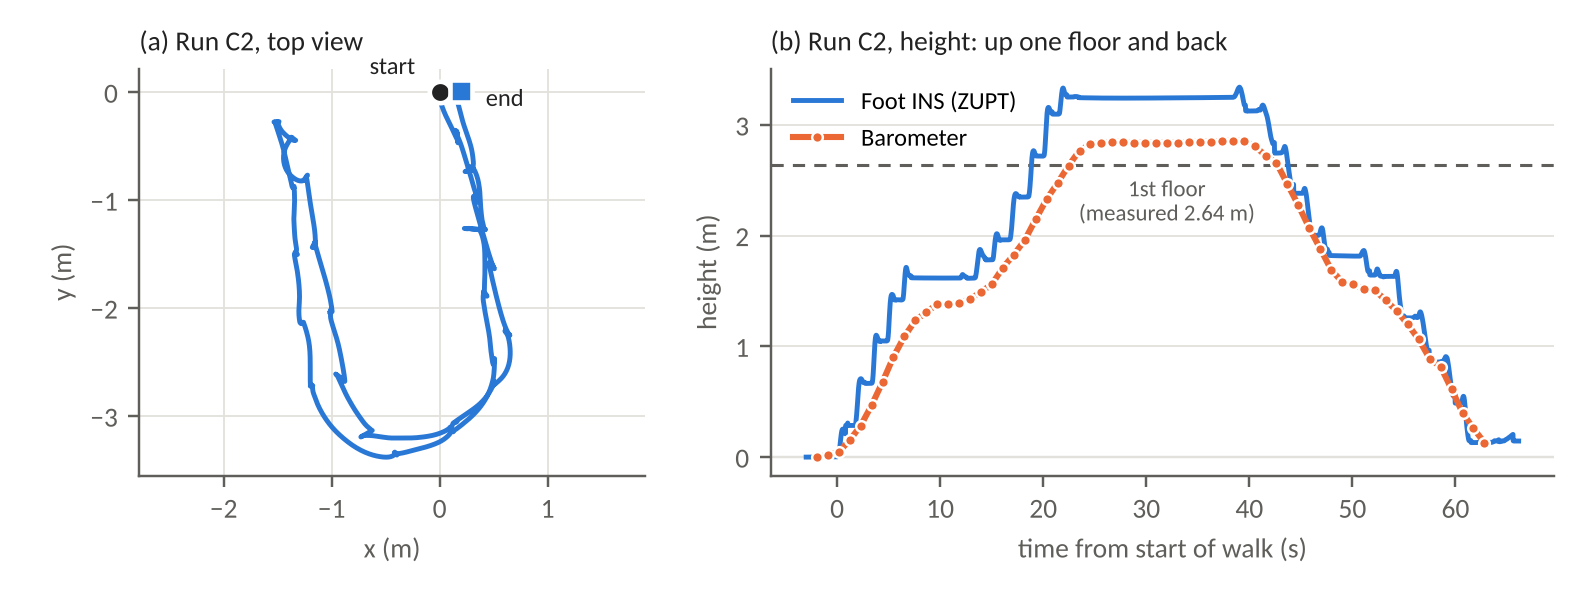
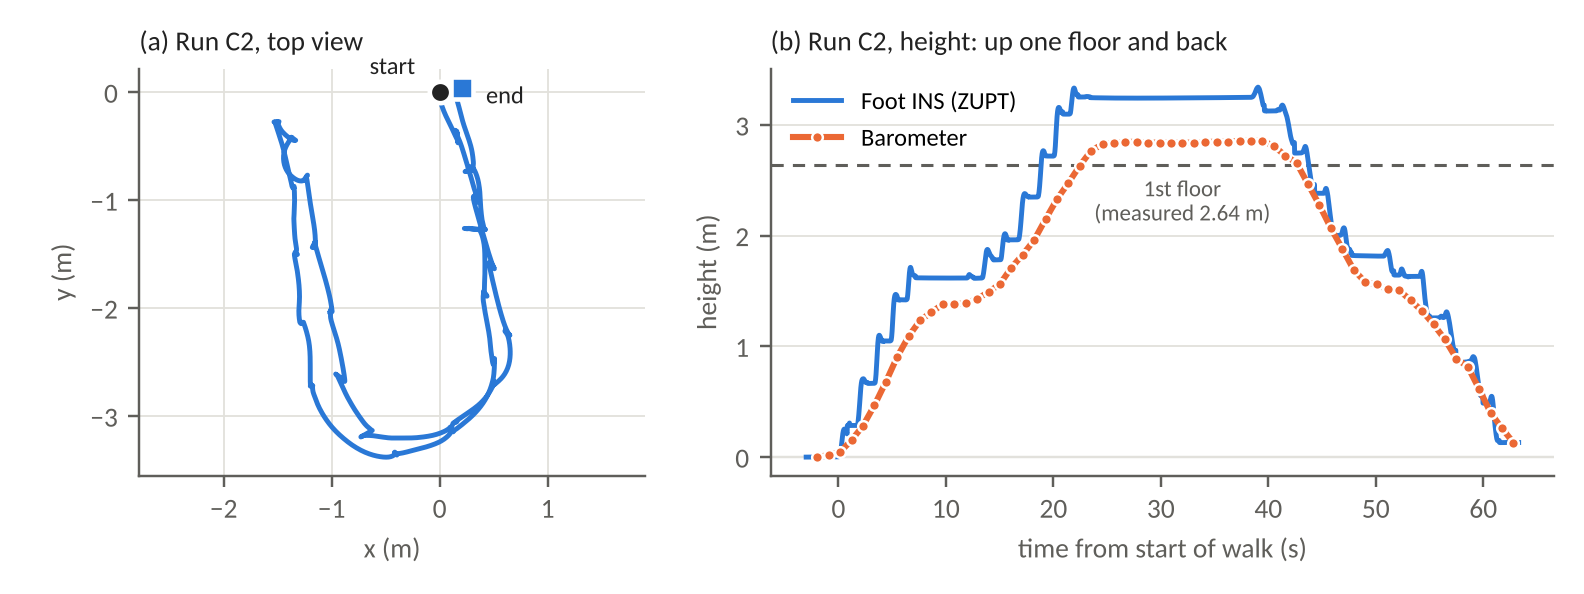
Updated Directory

diff --git a/code/analyse.py b/code/analyse.py
@@ -29,20 +29,21 @@ def segments(mask, t, min_s):
     return out
 
 
-def analyse(run):
+def analyse(run, gamma=3e4):
     t, f, w, b = load_run(f"{DATA}/{run}")
     ka, ks = find_start(t, w, f)
     t, f, w = t[ka:], f[ka:], w[ka:]
-    z, _ = glrt_detector(f, w)
+    z, _ = glrt_detector(f, w, gamma=gamma)
     pos, _ = run_ins(t, f, w, z)
     long_ = segments(z, t, 3.0)
     start = long_[0]
     top = max(long_[1:], key=lambda s: np.median(pos[s[0]:s[1], 2]))
     land_up = [s for s in long_ if start[1] <= s[0] < top[0]]
-    arrive = segments(z, t, 0.4)[-1]  # last foot-flat after the descent
+    # arrival = last foot-flat period >= 0.8 s; later, shorter stances are the phone being unstrapped
+    arrive = segments(z, t, 0.8)[-1]
     p0 = pos[start[0]:start[1]].mean(0)
     p1 = pos[arrive[0]:arrive[1]].mean(0)
-    stance = segments(z, t, 0.0)
+    stance = [s for s in segments(z, t, 0.0) if s[0] <= arrive[0]]
     mids = [(a + c) // 2 for a, c in stance]
     bt, bp = b.seconds_elapsed.to_numpy(), b.pressure.to_numpy()
     p_ref = np.median(bp[(bt >= t[start[0]]) & (bt <= t[start[1] - 1])])
@@ -58,15 +59,17 @@ def analyse(run):
         closing_err_horiz_m=float(np.linalg.norm((p1 - p0)[:2])),
         closing_err_vert_m=float((p1 - p0)[2]),
         path_m=float(np.sum(np.linalg.norm(np.diff(pos[mids], axis=0), axis=1))),
+        arrival_t_s=float(t[arrive[0]] - t[start[1]]),
         strides=count_steps(z),
     )
-    return m, dict(t=t - t[start[1]], pos=pos, bt=bt - t[start[1]], balt=balt, p0=p0, p1=p1, start=start)
+    return m, dict(arr=arrive[1], t=t - t[start[1]], pos=pos, bt=bt - t[start[1]], balt=balt, p0=p0, p1=p1, start=start)
 
 
 res, tr = {}, {}
 for r in ["c1", "c2"]:
     res[r], tr[r] = analyse(r)
-res["truth"] = dict(top_m=TRUTH, landing_m=LAND)
+res["truth"] = dict(top_m=TRUTH, landing_m=LAND, note="nominal: 16 risers x 6.5 in")
+res["sensitivity_ins_top_m"] = {f"gamma={g:.0e}": {r: round(analyse(r, g)[0]["ins_top_m"], 2) for r in ["c1", "c2"]} for g in [1e4, 3e4, 1e5]}
 json.dump(res, open(f"{OUT}/metrics.json", "w"), indent=1)
 print(json.dumps(res, indent=1))
 
@@ -81,7 +84,8 @@ fig, (ax1, ax2) = plt.subplots(1, 2, figsize=(7.2, 2.7), gridspec_kw={"width_rat
 # (a) top-down view, C2
 d = tr["c2"]
 k0 = d["start"][0]
-ax1.plot(d["pos"][k0:, 0], d["pos"][k0:, 1], color=BLUE, lw=1.6, solid_capstyle="round")
+ka = d["arr"]
+ax1.plot(d["pos"][k0:ka, 0], d["pos"][k0:ka, 1], color=BLUE, lw=1.6, solid_capstyle="round")
 ax1.plot(*d["p0"][:2], "o", ms=7, color=INK, mec="white", mew=1.5, zorder=5)
 ax1.plot(*d["p1"][:2], "s", ms=7, color=BLUE, mec="white", mew=1.5, zorder=5)
 ax1.annotate("start", d["p0"][:2], xytext=(-8, 6), textcoords="offset points", ha="right", color=INK, fontsize=8)
@@ -97,9 +101,9 @@ for s in ["top", "right"]:
 ax2.axhline(TRUTH, color=INK2, lw=1, ls=(0, (4, 3)))
 ax2.text(32, TRUTH - 0.1, "1st floor\n(measured 2.64 m)", ha="center", va="top", fontsize=7.5, color=INK2, linespacing=1.1)
 ax2.axhline(0, color=GRID, lw=0.8)
-m = d["t"] >= -3
+m = (d["t"] >= -3) & (np.arange(len(d["t"])) < d["arr"])
 ax2.plot(d["t"][m], d["pos"][m, 2], color=BLUE, lw=1.6, label="Foot INS (ZUPT)")
-mb = d["bt"] >= -3
+mb = (d["bt"] >= -3) & (d["bt"] <= d["t"][d["arr"] - 1])
 ax2.plot(d["bt"][mb], d["balt"][mb], color=ORANGE, lw=2, marker="o", ms=3.5, mec="white", mew=0.8,
          label="Barometer")
 ax2.set_xlabel("time from start of walk (s)"); ax2.set_ylabel("height (m)")

diff --git a/README.md b/README.md
@@ -1,30 +1,59 @@
 # SAATHI – preliminary foot-mounted INS results
 
-Offline test of the SAATHI navigation method (MYOSA 7.0 proposal) using a phone IMU
+Offline test of the SAATHI navigation method (IEEE MYOSA 7.0 proposal) with a phone IMU,
 before the MYOSA kit arrives.
 
-**Setup:** iPhone 14 strapped flat on the right instep, Sensor Logger app, 100 Hz
-(accelerometer, gyroscope, barometer). Two stair runs (`data/c1`, `data/c2`): stand still
-~20 s, climb ground → 1st floor (8 steps, landing, 8 steps; riser 6.5 in, so 2.64 m),
-pause, walk back down to the start mark. `data/demo` is a desk test of the recording setup.
+## Setup
+- iPhone 14 strapped flat on the right instep, recorded with the Sensor Logger app at 100 Hz
+  (accelerometer, gyroscope, barometer).
+- Two stair runs, `data/c1` and `data/c2`: stand still ~20 s, climb ground → 1st floor
+  (8 steps, landing, 8 steps), pause at the top, walk back down to the start mark.
+- Floor height: 2.64 m **nominal** (16 risers × 6.5 in); still to be re-measured with a tape.
+- `data/demo` is a short desk recording used only to check the logging setup; the analysis
+  does not use it.
+- The phone's `device id` field has been removed from every `Metadata.csv`.
 
-**Method (`code/saathi_zupt.py`):** 9-state error-state EKF with zero-velocity updates
-(ZUPT), SHOE/GLRT stance detector with the OpenShoe default parameters (not tuned to
-these runs), roll/pitch alignment from the still period, yaw = 0 at start.
+## Method (`code/saathi_zupt.py`)
+- 9-state error-state EKF (position, velocity, attitude) with zero-velocity updates (ZUPT).
+  The planned firmware uses a 15-state filter (adds gyro and accelerometer bias); here the
+  gyro bias is taken from the start-up still period.
+- SHOE/GLRT stance detector with the OpenShoe default parameters (γ = 3×10⁴), not tuned to
+  these runs.
+- Navigation starts from the first still period of ≥ 5 s (the phone was still being strapped
+  on at the start of each recording).
+- The arrival point is the last foot-flat period lasting ≥ 0.8 s; the recordings end while the
+  phone is being unstrapped, and those later samples are excluded.
 
-**Run:**
+## Run
 ```
-pip install numpy pandas matplotlib
+pip install -r requirements.txt
 python code/analyse.py code data results
 ```
 
-**Results (`results/metrics.json`):**
+## Results (`results/metrics.json`)
 
-| Run | INS floor height | Barometer | Measured | 3-D closing error |
+| Run | Walk | Return to start (3-D) | Floor height, foot INS | Floor height, barometer (on foot) |
 |---|---|---|---|---|
-| C1 | 3.05 m | 2.77 m | 2.64 m | 1.34 m |
-| C2 | 3.25 m | 2.84 m | 2.64 m | 0.25 m |
+| C1 | 16.0 m | 0.73 m (4.6%) | 3.05 m | 2.77 m |
+| C2 | 16.2 m | 0.24 m (1.5%) | 3.25 m | 2.84 m |
 
-The INS over-reads height by 15–23%; the barometer is closer, which supports using it to
-confirm floor changes. A phone IMU is better than the MPU6050 in the MYOSA kit, so these
-numbers validate the method, not the final hardware accuracy.
+Sensitivity of the INS floor height to the stance-detector threshold γ:
+
+| γ | C1 | C2 |
+|---|---|---|
+| 1×10⁴ | 3.06 m | 3.13 m |
+| 3×10⁴ (default) | 3.05 m | 3.25 m |
+| 1×10⁵ | 2.70 m | 2.81 m |
+
+## Limitations
+- Two runs only: evidence, not statistics. More runs will be recorded; γ will be tuned on some
+  and results reported on the rest.
+- INS height depends strongly on detector tuning, which is why SAATHI uses a barometer to
+  confirm floor changes.
+- The barometer here was on the foot. In SAATHI it is on the wrist (arm movement), which is
+  not tested yet, and the iPhone barometer is quieter than the BMP180 in the MYOSA kit.
+- A phone IMU is better than the MPU6050 in the MYOSA kit, so these numbers validate the
+  method, not the final hardware accuracy.
+
+## Licence
+MIT – see `LICENSE`.
